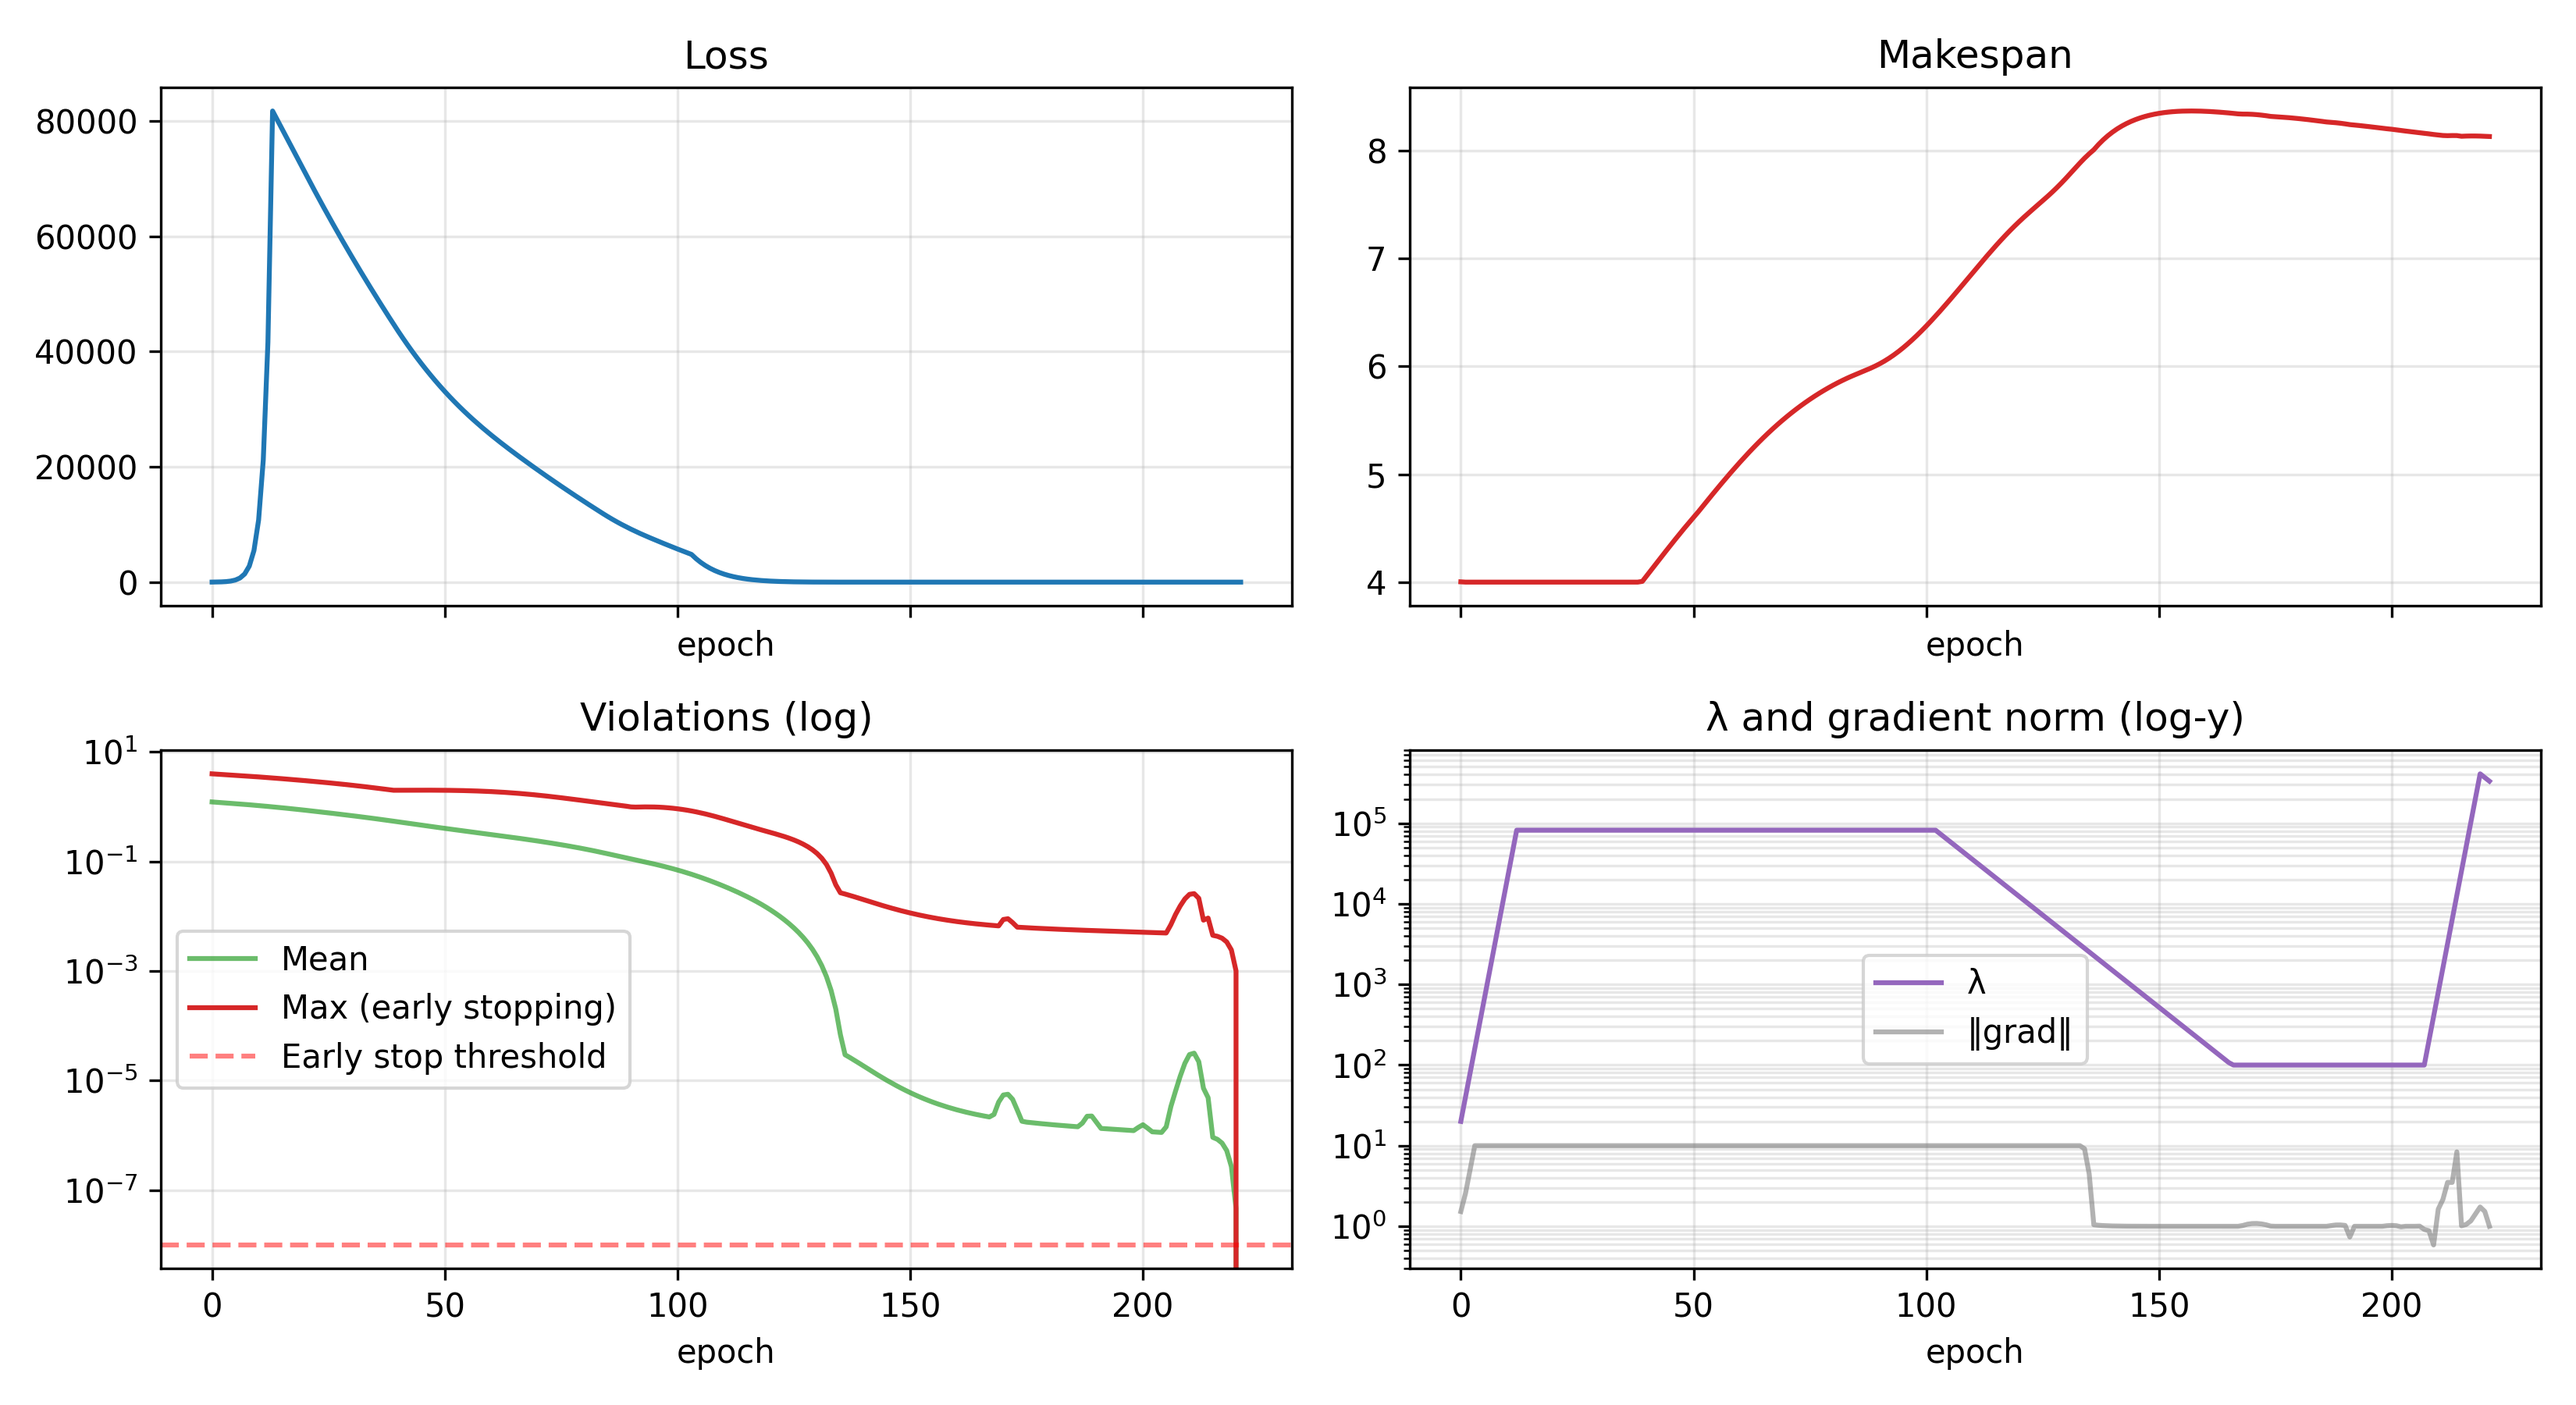
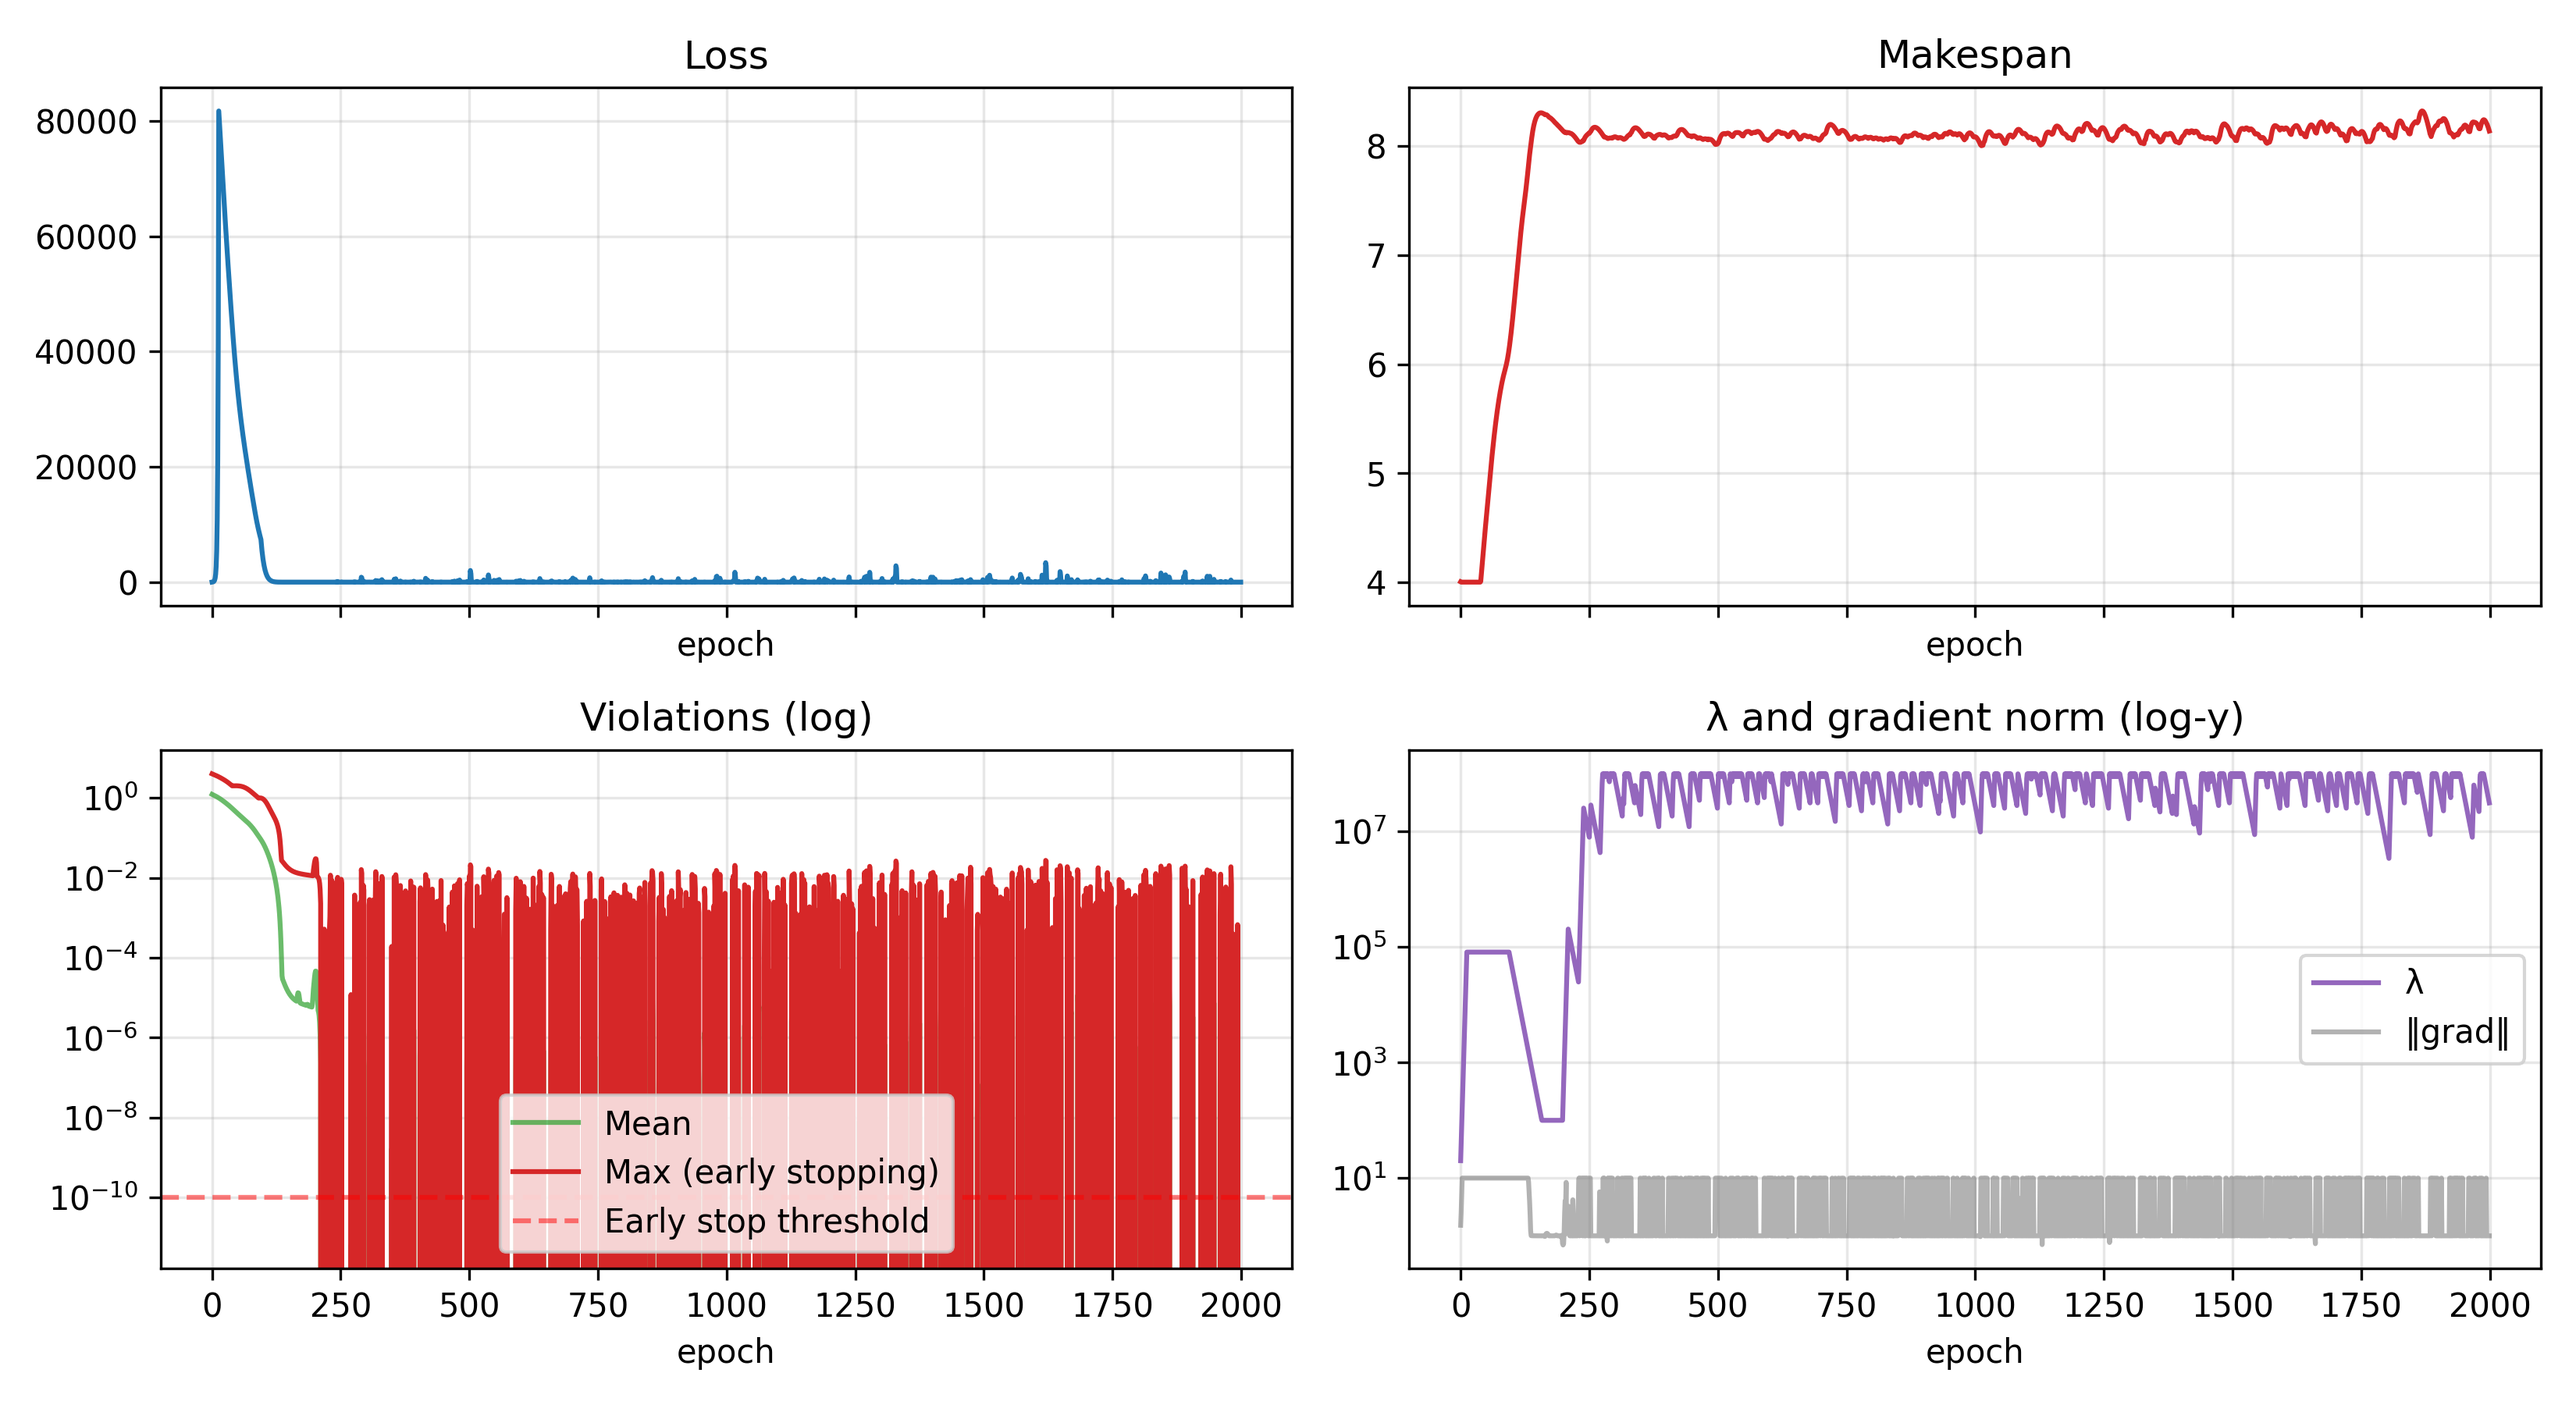
modified:   scheduler.py

diff --git a/scheduler.py b/scheduler.py
@@ -31,7 +31,8 @@ class DatalessProjectScheduler:
         penalty_init=10.0,         # initial λ for precedence violations
         penalty_anneal=1.5,        # multiply λ every `anneal_every` epochs
         anneal_every=50,
-        early_stop_tol=1e-8,        # early stopping when max violation < this
+        early_stop_tol=1e-6,        # early stopping when max violation < this
+        enable_early_stopping=True,  # easy switch to disable early stopping
         penalty_reduction_factor=0.9,   # conservative reduction rate when violations stable
         lookback_window=20,       # epochs to look back for trend analysis
         device="cpu"
@@ -59,6 +60,7 @@ class DatalessProjectScheduler:
         self.penalty_anneal = penalty_anneal
         self.anneal_every = anneal_every
         self.early_stop_tol = early_stop_tol
+        self.enable_early_stopping = enable_early_stopping
         
         # Simple parameters for all problems
         self.penalty_reduction_factor = penalty_reduction_factor
@@ -110,7 +112,7 @@ class DatalessProjectScheduler:
         * λ escalates when violations are large, reduces when stable and small
         * β doubles once λ is large OR violations are small
         * LR is gently reheated after λ saturates to avoid Adam stalls
-        * Early stopping when MAX individual violation < early_stop_tol time units
+        * Early stopping when enable_early_stopping=True and MAX individual violation < early_stop_tol time units
         """
         opt = torch.optim.Adam([self.raw_times], lr=lr)
 
@@ -197,7 +199,7 @@ class DatalessProjectScheduler:
             # ── 4⃣  Early stopping when MAX violation is tiny ─────────────────
             max_viol = torch.max(viol_raw).item()
             max_viol_hist.append(max_viol)
-            if max_viol < self.early_stop_tol:
+            if self.enable_early_stopping and max_viol < self.early_stop_tol:
                 if verbose:
                     print(f"Early stopping at epoch {ep}: max violation {max_viol:.3f} < {self.early_stop_tol} time units")
                 break
